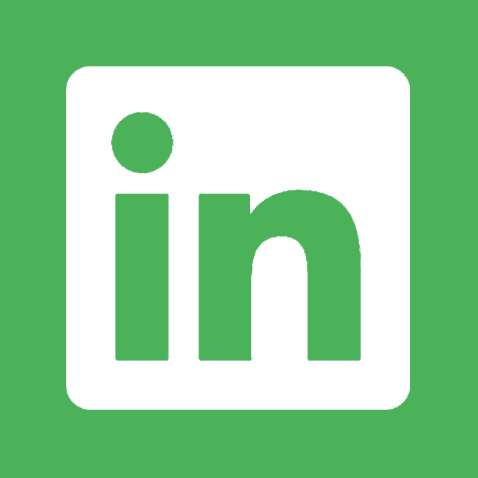
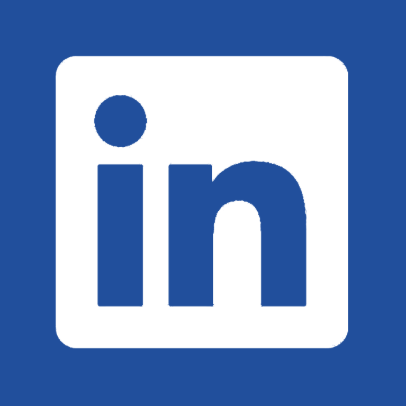
update UI color scheme

diff --git a/index.html b/index.html
@@ -13,7 +13,7 @@
 		<style>
 
 			body						{
-						background-color	:	#000F04;
+						background-color	:	#05133b;
 			}
 
 			top							{
@@ -46,56 +46,34 @@
 						transform			:	translate(-50%, -50%);
 			}
 
-			left						{
-						background-color	:	#000f04;
-						margin				:	0;
-						position			:	absolute;
-						width				:	90%;
-						top					:	90%;
-						left				:	50%;
-						-ms-transform		:	translate(-50%, -50%);
-						transform			:	translate(-50%, -50%);
-			}
-
-			right						{
-						background-color	:	#000f04;
-						margin				:	0;
-						position			:	absolute;
-						width				:	90%;
-						top					:	90%;
-						left				:	110%;
-						-ms-transform		:	translate(-50%, -50%);
-						transform			:	translate(-50%, -50%);
-			}
-
 			.headline 						{
 						z-index				:	25;
-						background-color	:	#46B356;
+						background-color	:	#1e4d9e;
 						position			:	absolute;
 						width				:	100%;
 						top					:	0px;
 						left				:	0px;
 						border-top			:	2px solid;
 						border-bottom		:	2px solid;
-						border-color		:	#46B356;
+						border-color		:	#1e4d9e;
 			}
 
 			.bottomline 						{
 						z-index				:	25;
-						background-color	:	#46B356;
+						background-color	:	#1e4d9e;
 						position			:	absolute;
 						width				:	100%;
 						bottom				:	0px;
 						left				:	0px;
 						border-top			:	2px solid;
 						border-bottom		:	2px solid;
-						border-color		:	#46B356;
+						border-color		:	#1e4d9e;
 			}
 
 			.button						{
 						float				:	left;
 						position			:	relative;
-						background-color	:	#46B356;
+						background-color	:	#1e4d9e;
 						width				:	80px;
 						height				:	30px;
 						line-height			:	30px;
@@ -109,7 +87,7 @@
 			}
 
 			.button:hover				{
-						background-color	:	#5FD972;
+						background-color	:	#3e76d6;
 			}
 
 			.home						{
@@ -128,11 +106,7 @@
 
 	</head>
 
-	<body
-		link  = "#045904"
-		vlink = "#304030"
-		alink = "#51A651"
-	>
+	<body>
 
 		<div class = "headline">
 
@@ -163,7 +137,7 @@
 								width	:	90%;
 							"
 			>
-				<font 	color = #004325
+				<font 	color = #d1e0ff
 						style = "
 									font-family	:	verdana;
 								"

diff --git a/demos.html b/demos.html
@@ -13,24 +13,23 @@
 		<style>
 
 			body						{
-						background-color	:	#000F04;
+						background-color	:	#05133b;
 			}
 
-			.headline						{
+			.headline 						{
 						z-index				:	25;
-						background-color	:	#46B356;
+						background-color	:	#1e4d9e;
 						position			:	absolute;
 						width				:	100%;
 						top					:	0px;
 						left				:	0px;
 						border-top			:	2px solid;
 						border-bottom		:	2px solid;
-						border-color		:	#46B356;
+						border-color		:	#1e4d9e;
 			}
 
 			.subheadline 					{
 						z-index				:	25;
-						background-color	:	white;
 						position			:	absolute;
 						top					:	34px;
 						right				:	0px;
@@ -40,7 +39,7 @@
 			.button						{
 						float				:	left;
 						position			:	relative;
-						background-color	:	#46B356;
+						background-color	:	#1e4d9e;
 						width				:	80px;
 						height				:	30px;
 						line-height			:	30px;
@@ -54,15 +53,17 @@
 			}
 
 			.button:hover				{
-						background-color	:	#5FD972;
+						background-color	:	#3e76d6;
 			}
 
 			.right						{
+						opacity				:	0.7;
 						background-color	:	#588CF5;
 						font-weight			:	normal;
 			}
 
 			.right:hover				{
+						opacity				:	1.0;
 						background-color	:	#EB7575;
 			}
 

diff --git a/articles.html b/articles.html
@@ -13,7 +13,7 @@
 		<style>
 
 			body						{
-						background-color	:	#000F04;
+						background-color	:	#05133b;
 			}
 
 			.buttonimg					{
@@ -30,16 +30,16 @@
 						transform			:	translate(-50%, -50%);
 			}
 
-			.headline						{
+			.headline 						{
 						z-index				:	25;
-						background-color	:	#46B356;
+						background-color	:	#1e4d9e;
 						position			:	absolute;
 						width				:	100%;
 						top					:	0px;
 						left				:	0px;
 						border-top			:	2px solid;
 						border-bottom		:	2px solid;
-						border-color		:	#46B356;
+						border-color		:	#1e4d9e;
 			}
 
 			.subheadline 					{
@@ -53,7 +53,7 @@
 			.button						{
 						float				:	left;
 						position			:	relative;
-						background-color	:	#46B356;
+						background-color	:	#1e4d9e;
 						width				:	80px;
 						height				:	30px;
 						line-height			:	30px;
@@ -67,7 +67,7 @@
 			}
 
 			.button:hover				{
-						background-color	:	#5FD972;
+						background-color	:	#3e76d6;
 			}
 
 			.right						{
@@ -97,7 +97,7 @@
 			.displaypanel				{
 						position			:	relative;
 						top					:	36px;
-						color				:	#D1E0FF;
+						color				:	#d1e0ff;
 						font-family			:	verdana;
 						font-size			:	16px;
 			}

diff --git a/articles/articles_ca.html b/articles/articles_ca.html
@@ -12,6 +12,10 @@
 
 		<style>
 
+			A							{
+				text-decoration				:	none;
+			}
+
 			body						{
 						background-image	:	url("star.jpg");
 			}
@@ -60,11 +64,7 @@
 
 	</head>
 
-	<body
-		link  = "#1e4d9e"
-		vlink = "#1e4d9e"
-		alink = "#1e4d9e"
-	>
+	<body>
 
 		<div class = "article">
 			<a href = "https://medium.com/front-end-weekly/how-to-add-some-fireworks-to-your-website-18b594b06cca?source=---------22------------------">

diff --git a/articles/articles_wd.html b/articles/articles_wd.html
@@ -12,6 +12,10 @@
 
 		<style>
 
+			A							{
+				text-decoration				:	none;
+			}
+
 			body						{
 						background-image	:	url("star.jpg");
 			}
@@ -60,11 +64,7 @@
 
 	</head>
 
-	<body
-		link  = "#0c3d22"
-		vlink = "#0c3d22"
-		alink = "#0c3d22"
-	>
+	<body>
 
 		<div class = "article">
 			<a href = "https://medium.com/front-end-weekly/how-to-create-your-first-ios-flutter-app-on-macos-7dfa9c3e1962">

diff --git a/articles/articles_ai.html b/articles/articles_ai.html
@@ -12,6 +12,10 @@
 
 		<style>
 
+			A							{
+				text-decoration				:	none;
+			}
+
 			body						{
 						background-image	:	url("star.jpg");
 			}
@@ -60,11 +64,7 @@
 
 	</head>
 
-	<body
-		link  = "#1e4d9e"
-		vlink = "#1e4d9e"
-		alink = "#1e4d9e"
-	>
+	<body>
 	
 		<div class = "article">
 			<a href = "https://towardsdatascience.com/understanding-cv-how-ai-sees-our-world-a977b90bf612">

diff --git a/articles/articles_oa.html b/articles/articles_oa.html
@@ -12,6 +12,10 @@
 
 		<style>
 
+			A							{
+				text-decoration				:	none;
+			}
+
 			body						{
 						background-image	:	url("star.jpg");
 			}
@@ -60,11 +64,7 @@
 
 	</head>
 
-	<body
-		link  = "#1e4d9e"
-		vlink = "#1e4d9e"
-		alink = "#1e4d9e"
-	>
+	<body>
 
 		<div class = "title">
 					COMMING SOON...

diff --git a/cookiemunch/cookiemunch.html b/cookiemunch/cookiemunch.html
@@ -8,7 +8,7 @@
 		<style>
 		@keyframes bgcolor {
 			0% {
-				background-color : #000f04;
+				background-color : #05133b;
 			}
 			100% {
 				background-color : #010112;

diff --git a/unicornshoot/unicornshoot.html b/unicornshoot/unicornshoot.html
@@ -8,7 +8,7 @@
 		<style>
 		@keyframes bgcolor {
 			0% {
-				background-color : #000f04;
+				background-color : #05133b;
 			}
 			100% {
 				background-color : #010112;
